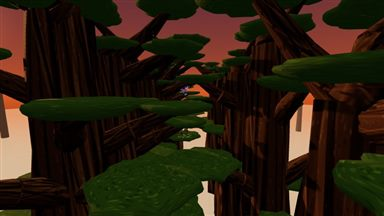
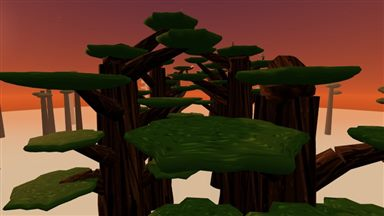
Topiary Grove: half as many trees in each row

diff --git a/src/main.js b/src/main.js
@@ -1,18 +1,18 @@
 import * as THREE from 'three';
-import { Arena, MAPS } from './arena.js?v=20261116030410';
-import { Fighter, PALETTE, GUARD, setMetalEnv, metalEnvFor } from './fighter.js?v=20261116030410';
-import { bakeMeshes, Pieces, Particles, splitSoup } from './slice.js?v=20261116030410';
-import { sfx, ensureAudio, setListener, setVolume, setMuted } from './audio.js?v=20261116030410';
-import * as net from './net.js?v=20261116030410';
-import { MODES, POINT_MODES, MODE_GOAL, ModeFx, makeCrown } from './modes.js?v=20261116030410';
-import { profile, addCoins, randomLook, cleanLook, item, cleanUp, upMul } from './cosmetics.js?v=20261116030410';
-import { makeKillFx } from './killfx.js?v=20261116030410';
-import { makeGrapple } from './grapple.js?v=20261116030410';
-import { initShop } from './shop.js?v=20261116030410';
-import { breakChunk, chunkSoup } from './dojo.js?v=20261116030410';
-import { portal } from './portal.js?v=20261116030410';
-import { Piranhas, GiantSaws, GiantBirds } from './piranha.js?v=20261116030410';
-import { makePost } from './post.js?v=20261116030410';
+import { Arena, MAPS } from './arena.js?v=20261116030512';
+import { Fighter, PALETTE, GUARD, setMetalEnv, metalEnvFor } from './fighter.js?v=20261116030512';
+import { bakeMeshes, Pieces, Particles, splitSoup } from './slice.js?v=20261116030512';
+import { sfx, ensureAudio, setListener, setVolume, setMuted } from './audio.js?v=20261116030512';
+import * as net from './net.js?v=20261116030512';
+import { MODES, POINT_MODES, MODE_GOAL, ModeFx, makeCrown } from './modes.js?v=20261116030512';
+import { profile, addCoins, randomLook, cleanLook, item, cleanUp, upMul } from './cosmetics.js?v=20261116030512';
+import { makeKillFx } from './killfx.js?v=20261116030512';
+import { makeGrapple } from './grapple.js?v=20261116030512';
+import { initShop } from './shop.js?v=20261116030512';
+import { breakChunk, chunkSoup } from './dojo.js?v=20261116030512';
+import { portal } from './portal.js?v=20261116030512';
+import { Piranhas, GiantSaws, GiantBirds } from './piranha.js?v=20261116030512';
+import { makePost } from './post.js?v=20261116030512';
 
 // ---------- settings ----------
 const store = {

diff --git a/src/arena.js b/src/arena.js
@@ -3,18 +3,18 @@
 // so collision and "what am I standing on" stay simple and identical in every browser.
 import * as THREE from 'three';
 import { buildPagoda, buildIsles, buildBowl } from './maps2.js';
-import { buildTilt } from './tilt.js?v=20261116030410';
-import { buildFoundry } from './foundry.js?v=20261116030410';
-import { buildBamboo } from './bamboo.js?v=20261116030410';
-import { buildCity } from './city.js?v=20261116030410';
-import { buildDojo } from './dojo.js?v=20261116030410';
-import { buildComet } from './comet.js?v=20261116030410';
-import { buildLava } from './lava.js?v=20261116030410';
-import { buildRun } from './run.js?v=20261116030410';
-import { buildGrove } from './grove.js?v=20261116030410';
-import { addScenery } from './scenery.js?v=20261116030410';
-import { addAtmosphere } from './atmos.js?v=20261116030410';
-import { makeMesa, mesaMesh } from './mesa.js?v=20261116030410';
+import { buildTilt } from './tilt.js?v=20261116030512';
+import { buildFoundry } from './foundry.js?v=20261116030512';
+import { buildBamboo } from './bamboo.js?v=20261116030512';
+import { buildCity } from './city.js?v=20261116030512';
+import { buildDojo } from './dojo.js?v=20261116030512';
+import { buildComet } from './comet.js?v=20261116030512';
+import { buildLava } from './lava.js?v=20261116030512';
+import { buildRun } from './run.js?v=20261116030512';
+import { buildGrove } from './grove.js?v=20261116030512';
+import { addScenery } from './scenery.js?v=20261116030512';
+import { addAtmosphere } from './atmos.js?v=20261116030512';
+import { makeMesa, mesaMesh } from './mesa.js?v=20261116030512';
 const NONE = [];
 const _bm = new THREE.Matrix4(), _bp = new THREE.Vector3(), _bq = new THREE.Quaternion(), _bs = new THREE.Vector3(), _UP = new THREE.Vector3(0, 1, 0); // bamboo instance updates
 

diff --git a/index.html b/index.html
@@ -4,7 +4,7 @@
 <meta charset="utf-8">
 <meta name="viewport" content="width=device-width,initial-scale=1">
 <title>Sever</title>
-<meta name="build" content="20261116030410">
+<meta name="build" content="20261116030512">
 <link rel="icon" href="data:,">
 <script>
 // Stale-page guard (as in Splatline): if version.json names a newer build than this page, reload once.
@@ -185,12 +185,12 @@ window.severVersion.check();
 <script type="importmap">
 { "imports": {
   "three": "./vendor/three.module.min.js",
-  "./src/main.js": "./src/main.js?v=20261116030410",
-  "./src/arena.js": "./src/arena.js?v=20261116030410",
-  "./src/fighter.js": "./src/fighter.js?v=20261116030410",
-  "./src/slice.js": "./src/slice.js?v=20261116030410",
-  "./src/audio.js": "./src/audio.js?v=20261116030410",
-  "./src/net.js": "./src/net.js?v=20261116030410"
+  "./src/main.js": "./src/main.js?v=20261116030512",
+  "./src/arena.js": "./src/arena.js?v=20261116030512",
+  "./src/fighter.js": "./src/fighter.js?v=20261116030512",
+  "./src/slice.js": "./src/slice.js?v=20261116030512",
+  "./src/audio.js": "./src/audio.js?v=20261116030512",
+  "./src/net.js": "./src/net.js?v=20261116030512"
 } }
 </script>
 </head>
@@ -344,6 +344,6 @@ window.severVersion.check();
 <div id="toast" style="opacity:0"></div>
 <div id="loading">Loading…</div>
 <noscript><p style="position:fixed;inset:0;display:flex;align-items:center;justify-content:center">Sever needs JavaScript and WebGL.</p></noscript>
-<script type="module" src="src/main.js?v=20261116030410"></script>
+<script type="module" src="src/main.js?v=20261116030512"></script>
 </body>
 </html>

diff --git a/src/grove.js b/src/grove.js
@@ -54,8 +54,8 @@ export function buildGrove(A, T) {
   const ROW = 12, BASE = -40, trees = [], all = [];
   const free = (px, pz, py, R) => all.every((q) => Math.hypot(q.x - px, q.z - pz) > q.round + R + 0.8 || Math.abs(q.y - py) > 5);
   const pad = (px, pz, py, R) => { const p = addPad(px, pz, py, R); all.push(p); return p; };
-  for (const side of [-1, 1]) for (let k = 0; k < 8; k++) {
-    const x = side * (ROW + (r() - 0.5) * 2), z = -46 + k * 13 + (side > 0 ? 6.5 : 0) + (r() - 0.5) * 3, top = 15 + r() * 8, H = top - BASE, R0 = 3.6 + r() * 1.4;
+  for (const side of [-1, 1]) for (let k = 0; k < 4; k++) {
+    const x = side * (ROW + (r() - 0.5) * 2), z = -39 + k * 26 + (side > 0 ? 13 : 0) + (r() - 0.5) * 3, top = 15 + r() * 8, H = top - BASE, R0 = 3.6 + r() * 1.4;
     // the trunk: thick and swollen, twisting as it rises out of the mist
     const tg = new THREE.CylinderGeometry(R0 * 0.62, R0 * 1.3, H, 20, 14, false), tp = tg.attributes.position, ph = r() * TAU;
     for (let i = 0; i < tp.count; i++) { const y = tp.getY(i) / H + 0.5, a = Math.atan2(tp.getZ(i), tp.getX(i)), rr = Math.hypot(tp.getX(i), tp.getZ(i)), k2 = 1 + 0.16 * Math.sin(a * 3 + y * 7 + ph) + 0.08 * Math.sin(a * 7 - y * 12), tw = a + y * 1.4; tp.setX(i, Math.cos(tw) * rr * k2); tp.setZ(i, Math.sin(tw) * rr * k2); }

diff --git a/src/shop.js b/src/shop.js
@@ -1,10 +1,10 @@
 // The shop screen: browse by category, try things on a turning, swinging preview fighter, buy and equip.
 import * as THREE from 'three';
-import { Fighter, PALETTE, setMetalEnv, metalEnvFor } from './fighter.js?v=20261116030410';
-import { Particles, Pieces, bakeMeshes } from './slice.js?v=20261116030410';
-import { makeKillFx } from './killfx.js?v=20261116030410';
-import { makeGrapple } from './grapple.js?v=20261116030410';
-import { CATEGORIES, CATALOG, item, profile, owns, buy, equip, UPGRADES, UP_MAX, UP_PRICES, buyUpgrade, upText, tierOf } from './cosmetics.js?v=20261116030410';
+import { Fighter, PALETTE, setMetalEnv, metalEnvFor } from './fighter.js?v=20261116030512';
+import { Particles, Pieces, bakeMeshes } from './slice.js?v=20261116030512';
+import { makeKillFx } from './killfx.js?v=20261116030512';
+import { makeGrapple } from './grapple.js?v=20261116030512';
+import { CATEGORIES, CATALOG, item, profile, owns, buy, equip, UPGRADES, UP_MAX, UP_PRICES, buyUpgrade, upText, tierOf } from './cosmetics.js?v=20261116030512';
 
 const $ = (id) => document.getElementById(id);
 const hex = (c) => '#' + c.toString(16).padStart(6, '0');

diff --git a/src/city.js b/src/city.js
@@ -3,9 +3,9 @@
 // breakable chunks as the Paper Dojo: every window pane shatters, office partitions and crates break, and the
 // steel frames (unbreakable) are there to swing from, run along and stand on.
 import * as THREE from 'three';
-import { cloudHeaps } from './scenery.js?v=20261116030410';
+import { cloudHeaps } from './scenery.js?v=20261116030512';
 import { deck, prop } from './maps2.js';
-import { kindMats, chunk, group, wall, stack, finishBrk, kill } from './dojo.js?v=20261116030410';
+import { kindMats, chunk, group, wall, stack, finishBrk, kill } from './dojo.js?v=20261116030512';
 
 const TAU = Math.PI * 2;
 const std = (color, o = {}) => new THREE.MeshStandardMaterial({ color, roughness: 0.8, ...o });

diff --git a/src/fighter.js b/src/fighter.js
@@ -2,8 +2,8 @@
 // cleanly), posed each frame with a long-striding run cycle, two-bone IK for arms and legs, and a sword
 // driven by the swing input (s.x, s.y).
 import * as THREE from 'three';
-import { buildBody, poseBody } from './body.js?v=20261116030410';
-import { item, cleanLook } from './cosmetics.js?v=20261116030410';
+import { buildBody, poseBody } from './body.js?v=20261116030512';
+import { item, cleanLook } from './cosmetics.js?v=20261116030512';
 
 // Every material that can end up on a sliced piece is registered here, so a piece's single mesh can use
 // one shared material array and keep each triangle's look.

diff --git a/src/maps2.js b/src/maps2.js
@@ -3,7 +3,7 @@
 //   Pagoda Falls: a three-tier pagoda at sunset, stone islands, rock spires and terraces, red lacquer posts.
 //   Moonlit Isles: floating grass islands at night, a great cherry tree, rope bridges, bamboo groves.
 import * as THREE from 'three';
-import { buildMaw, mawY, buildTendrils } from './maw.js?v=20261116030410';
+import { buildMaw, mawY, buildTendrils } from './maw.js?v=20261116030512';
 
 const TAU = Math.PI * 2;
 const std = (color, o = {}) => new THREE.MeshStandardMaterial({ color, roughness: 0.8, ...o });

diff --git a/src/tilt.js b/src/tilt.js
@@ -5,7 +5,7 @@
 // whoever is on it; a new one is hung back on 10 s later.
 import * as THREE from 'three';
 import { drift } from './maps2.js';
-import { cloudHeaps } from './scenery.js?v=20261116030410';
+import { cloudHeaps } from './scenery.js?v=20261116030512';
 
 const TAU = Math.PI * 2, N = 6, R = 14, DISH = 1.9, ARM = 25, L = 22, HUB = 40, MAXOFF = 2; // platforms, radius, dish depth, crown arm, chain, crown height, extra swing
 const std = (color, o = {}) => new THREE.MeshStandardMaterial({ color, roughness: 0.7, ...o });

diff --git a/src/piranha.js b/src/piranha.js
@@ -1,7 +1,7 @@
 // Great Canopy: fall too low and a giant piranha bursts out of the swamp, jaws wide, snaps you up and dives back in.
 // Purely visual (every client plays it locally when it sees a fall death on that map).
 import * as THREE from 'three';
-import { bladeMesh } from './foundry.js?v=20261116030410';
+import { bladeMesh } from './foundry.js?v=20261116030512';
 
 const TAU = Math.PI * 2;
 const std = (color, o = {}) => new THREE.MeshStandardMaterial({ color, roughness: 0.55, metalness: 0.15, ...o });

diff --git a/src/killfx.js b/src/killfx.js
@@ -1,8 +1,8 @@
 // Kill effects from the shop: what happens to someone you cut down. The body still splits along your
 // cut; the effect changes what sprays out, what the pieces leak, and what becomes of them.
 import * as THREE from 'three';
-import { Particles } from './slice.js?v=20261116030410';
-import { sfx } from './audio.js?v=20261116030410';
+import { Particles } from './slice.js?v=20261116030512';
+import { sfx } from './audio.js?v=20261116030512';
 
 const R = () => Math.random() - 0.5;
 

diff --git a/src/bamboo.js b/src/bamboo.js
@@ -5,7 +5,7 @@
 // them (and come back a few seconds later for the next fighter).
 import * as THREE from 'three';
 import { deck, prop, stalk, drift, farRing } from './maps2.js';
-import { kindMats, chunk, join, group, wall, stack, finishBrk, kill } from './dojo.js?v=20261116030410';
+import { kindMats, chunk, join, group, wall, stack, finishBrk, kill } from './dojo.js?v=20261116030512';
 
 const TAU = Math.PI * 2, HALF = 30, TILE = 1.5;
 
